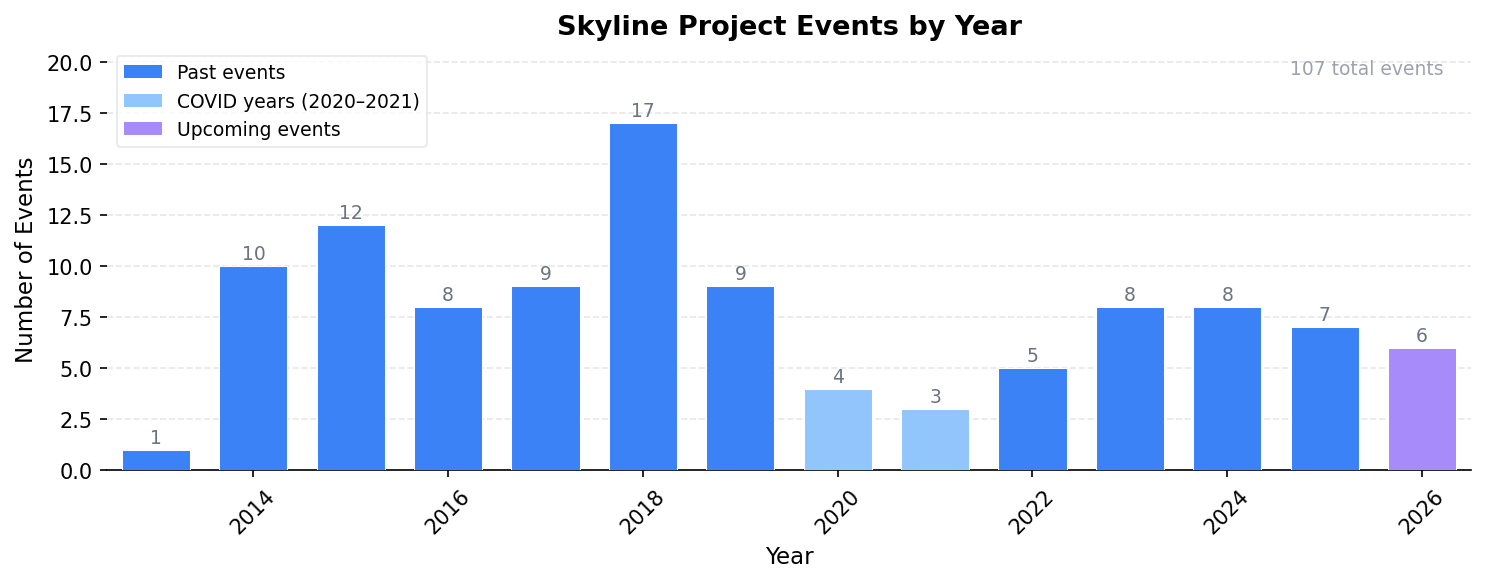
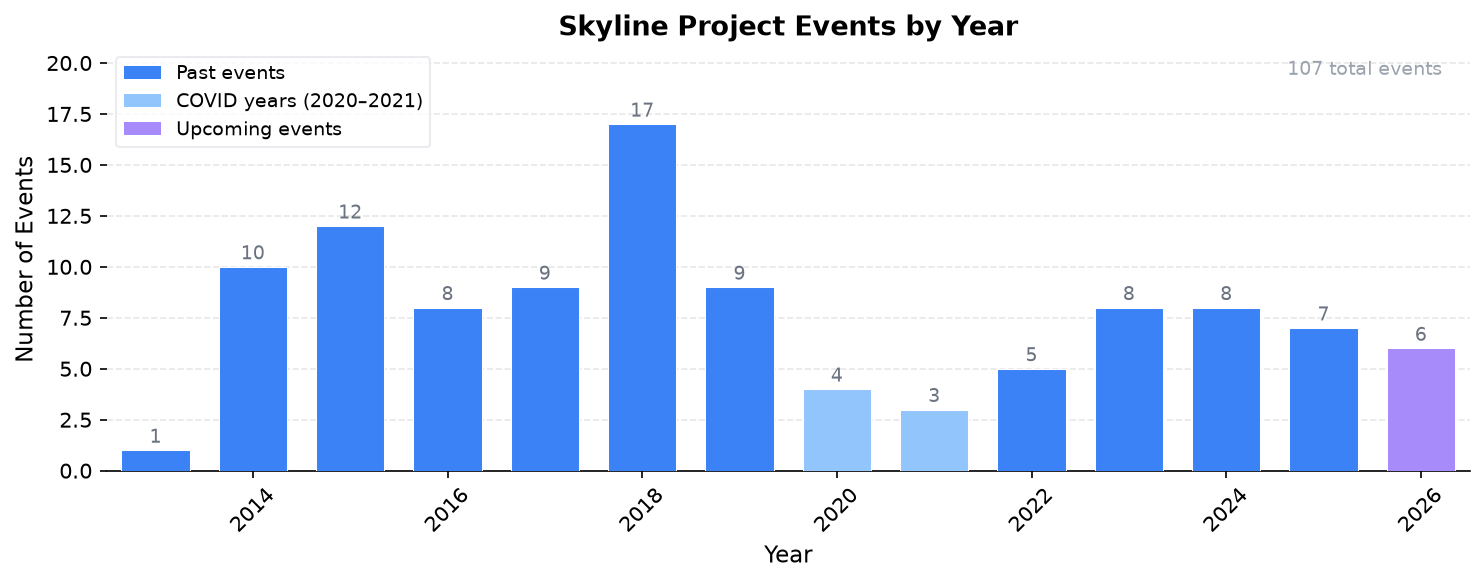
Update publications, datasets, resources, and add JPR editor-in-chief post
Run all update scripts: publications and citation metrics, Panorama
datasets, educational materials, and Skyline events/webinars. Add the
JPR editor-in-chief news post and ignore the Windows venv (.venv-win/).

diff --git a/pages/resources.md b/pages/resources.md
@@ -91,7 +91,7 @@ Example publications describing the Stellar from the MacCoss lab include:
 - **External Tools**: Skyline has an external tool framework. We have a [tool store](http://skyline.ms/tools.url) with 20 tools currently available.
 - **Source Code** is available as part of the [Proteowizard project](https://github.com/ProteoWizard/pwiz).
 - **Original Publication** MacLean et al, [Skyline: an open source document editor for creating and analyzing targeted proteomics experiments](https://academic.oup.com/bioinformatics/article/26/7/966/212410), *Bioinformatics* 2010
-- **Cited:** 5,560 times
+- **Cited:** 5,576 times
 
 ### ![Proteowizard](../assets/images/logos/proteowizard-logo.jpg "Proteowizard")
 **Widely used software tools and libraries for mass spectrometry data analysis.**
@@ -99,7 +99,7 @@ Example publications describing the Stellar from the MacCoss lab include:
 - **Download and Documentation:** [https://proteowizard.sourceforge.io/](https://proteowizard.sourceforge.io/)
 - **Source Code:** Available on [Github](https://github.com/ProteoWizard/pwiz) and licensed under Apache 2.0.
 - **Original Publication:** Chambers et al, [A cross-platform toolkit for mass spectrometry and proteomics](https://www.nature.com/articles/nbt.2377), *Nature Biotechnology* 2012
-- **Cited:** 4,908 times
+- **Cited:** 4,939 times
 
 ### ![Panorama](../assets/images/logos/panorama_logo_h_onwhite_border.png "Panorama")
 **Web-based repository for Skyline documents and colaboration**
@@ -157,7 +157,7 @@ Example publications describing the Stellar from the MacCoss lab include:
 
 **[Browse all MacCoss Lab datasets on Panorama Public →](https://panoramaweb.org/project/Panorama%20Public/begin.view#searchTab:expSearchPanel?Targeted%20MS%20Experiment%20List.authors~containsoneof=MacCoss&)**
 
-*Last updated: September 19, 2026 — 65 datasets available*
+*Last updated: October 15, 2026 — 65 datasets available*
 
 ### 2026
 
@@ -285,12 +285,14 @@ collision cross-section database</a></td><td></td></tr>
 
 </div>
 </div>
+
+
   <div id="educational" class="tab-content">
     <div markdown="1">
 
 ## Educational Materials
 
-*Last updated: October 06, 2026 — 28 Skyline tutorials available*
+*Last updated: October 15, 2026 — 28 Skyline tutorials available*
 
 ### UWPR Mass Spectrometry Resources
 
@@ -400,7 +402,7 @@ collision cross-section database</a></td><td></td></tr>
 
 ## Support & Training
 
-*Last updated: October 06, 2026 — 2 upcoming events, 105 past events, 27 webinars*
+*Last updated: October 15, 2026 — 2 upcoming events, 105 past events, 28 webinars*
 
 ### Forums and Discussion
 - [Skyline Support Board](https://skyline.ms/home/support/project-begin.view)
@@ -416,12 +418,10 @@ collision cross-section database</a></td><td></td></tr>
 
 The Skyline Team presents tutorial webinars designed to help you get the most out of Skyline targeted proteomics software. Each ~90 minute webinar includes Q&A, presentations, and tutorial data.
 
-**Recent Webinars (2025):**
-- [#27: Peak Boundary Imputation for DIA Data](https://skyline.ms/project/home/software/Skyline/events/2025%20Webinars/Webinar%2027/begin.view?) (Dec 2025)
-- [#26: DIA with FragPipe, DIA-NN and Skyline](https://skyline.ms/project/home/software/Skyline/events/2025%20Webinars/Webinar%2026/begin.view?) (Sept 2025)
-- [#25: Comparing Acquisition Methods](https://skyline.ms/project/home/software/Skyline/events/2025%20Webinars/Webinar%2025/begin.view?) (Jan 2025)
+**Recent Webinars (2026):**
+- [#28: Glycan Workflows with Skyline](https://skyline.ms/project/home/software/Skyline/events/2026%20Webinars/Webinar%2028/begin.view?) (Oct 2026)
 
-*[View all 27 webinars](https://skyline.ms/home/software/Skyline/wiki-page.view?name=webinars)*
+*[View all 28 webinars](https://skyline.ms/home/software/Skyline/wiki-page.view?name=webinars)*
 
 ### Past Events by Year
 

diff --git a/pages/publications.md b/pages/publications.md
@@ -10,20 +10,20 @@ View our complete publication list on [Google Scholar](https://scholar.google.co
 
 ## Publication Metrics
 
-- **Total Publications**: 344 (328 peer-reviewed + 16 preprints)
-- **Total Citations**: 57,272 ([Google Scholar](https://scholar.google.com/citations?user=icweOB0AAAAJ&hl=en))
+- **Total Publications**: 345 (329 peer-reviewed + 16 preprints)
+- **Total Citations**: 57,493 ([Google Scholar](https://scholar.google.com/citations?user=icweOB0AAAAJ&hl=en))
 - **h-index**: 106
-- **Most Cited Paper**: "Skyline: an open source document editor for creating and analyzing targeted proteomics experiments" (5,560 citations)
+- **Most Cited Paper**: "Skyline: an open source document editor for creating and analyzing targeted proteomics experiments" (5,576 citations)
 
 ![Publication and Citation Metrics](../assets/images/publication-metrics.png)
 
-*Last updated: October 02, 2026 — 344 publications*
+*Last updated: October 15, 2026 — 345 publications*
 
 ## Publications by Year
 
 <div class="publications-container">
 <div class="year-navigation">
-<button class="year-button active" onclick="showYear(event, '2026')">2026 (21)</button>
+<button class="year-button active" onclick="showYear(event, '2026')">2026 (22)</button>
 <button class="year-button" onclick="showYear(event, '2025')">2025 (22)</button>
 <button class="year-button" onclick="showYear(event, '2024')">2024 (13)</button>
 <button class="year-button" onclick="showYear(event, '2023')">2023 (19)</button>
@@ -57,6 +57,11 @@ View our complete publication list on [Google Scholar](https://scholar.google.co
 <div id="year-2026" class="year-content active" markdown="1">
 
 ### 2026
+
+**Reproducible Amyloid Typing by Data-Independent Acquisition Mass Spectrometry**
+Emmanuel A, Smith KD, Catungal W, Kuest E, Yang HY, Plubell DL, Yu S, Ma J, Krumm N, Wu CC, Noble WS, Searle BC, MacCoss MJ, Hoofnagle AN, Phipps WS
+*Clinical chemistry* 2026 Oct
+<a href="https://pubmed.ncbi.nlm.nih.gov/42838732/">PubMed<span class="visually-hidden"> for &#8220;Reproducible Amyloid Typing by Data-Independent Acquisition Mass Spectrometry&#8221;</span></a> | <a href="https://doi.org/10.1093/clinchem/hvag132">DOI<span class="visually-hidden"> for &#8220;Reproducible Amyloid Typing by Data-Independent Acquisition Mass Spectrometry&#8221;</span></a>
 
 **Quantification of Proinsulin in Human Plasma by Proteolysis-Aided Peptide Immunoaffinity-Liquid Chromatography-Tandem Mass Spectrometry**
 Shijo SK, Goonatilleke E, Barahona-Carrillo L, Forrest K, Becker JO, MacCoss MJ, Speake C, Lee CS, Johnson L, Huynh HH, Hoofnagle AN

diff --git a/_posts/2026-10-15-jpr-editor-in-chief.md b/_posts/2026-10-15-jpr-editor-in-chief.md
@@ -1,0 +1,14 @@
+---
+layout: post
+title: "Mike MacCoss Appointed Editor-in-Chief of Journal of Proteome Research"
+date: 2026-10-15
+categories: [announcement, editorial, jpr]
+---
+
+ACS Publications has [announced](https://axial.acs.org/analytical-chemistry/announcing-the-next-editor-in-chief-of-journal-of-proteome-research) that Mike MacCoss has been appointed the next Editor-in-Chief of [*Journal of Proteome Research*](https://pubs.acs.org/journal/jprobs) (*JPR*). He will begin his term on January 1, 2027, succeeding Professor John R. Yates III, who has led the journal since 2016.
+
+*JPR* is a monthly, peer-reviewed journal reporting on global protein analysis and function, with an emphasis on a multidisciplinary approach to the life sciences through the synergy between the different types of "omics."
+
+Mike's vision for the journal is for *JPR* to be an outward-facing hub for pioneering methods, computational tools, and biological discoveries, while expanding its reach into clinical and translational medicine. He also wants the journal to be welcoming to researchers outside the proteomics community and to serve as a knowledge base for the next generation of proteomics and metabolomics scientists, with field-defining perspectives, tutorials, and reproducible protocols that make complex omics technologies accessible to any laboratory. These goals will be anchored by an author-first review experience that is fast, constructive, and respectful of the reviewers who make the community possible.
+
+Read the full announcement on [ACS Axial](https://axial.acs.org/analytical-chemistry/announcing-the-next-editor-in-chief-of-journal-of-proteome-research).
